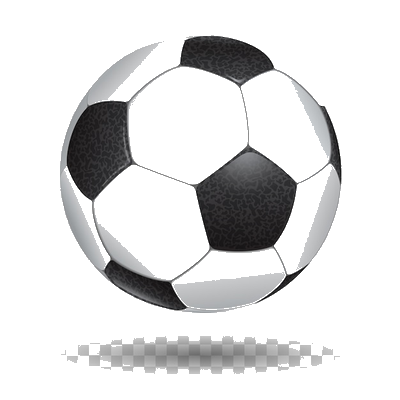
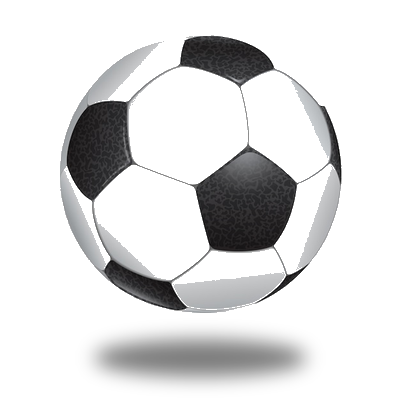
Fix: pallone da calcio dithered e Porta da calcio riclassificata
L'immagine deco-pallone-calcio.png aveva l'ombra sotto il pallone
corrotta: il canale alpha era ridotto a blocchi netti 0/255 senza vie
di mezzo, tipico artefatto di una compressione che quantizza la
trasparenza a scacchiera invece di mantenerla sfumata. Il risultato
era il pattern a scacchi visibile nell'anteprima della decorazione.

Rigenerata l'ombra con una vera sfumatura alpha (gradiente gaussiano,
nessun dithering), mantenendo intatto il pallone che non aveva il
problema. Verificato che l'alpha ora cresce gradualmente pixel per
pixel invece di saltare a scatti.

'Porta da calcio' era classificata 'flat' (2D) in ordina.html ma ha un
vero modello .glb tridimensionale (Porta da calcio.glb, presente su
disco): rimossa dall'elenco flat_items del tema Sport.

Controllato sistematicamente il resto del catalogo confrontando ogni
decorazione con il relativo file .glb: 'Pallone da calcio' e' l'unica
priva di modello 3D (usa il PNG come fallback, corretto). Il conteggio
vertici non e' un indicatore affidabile per altre classificazioni: la
quasi totalita' delle decorazioni segnate 'flat' ha comunque mesh
dettagliate a migliaia di vertici, quindi 'flat' descrive il pezzo
fisico stampato e non la complessita' del modello di anteprima - nessun
altro caso segnalabile senza revisione visiva singola.

Claude-Session: https://claude.ai/code/session_01D9n4oh5V6RCr9X9jCFhdVj

Changed region(s): [[0.15, 0.81, 0.84, 0.96]]

diff --git a/app/templates/ordina.html b/app/templates/ordina.html
@@ -376,7 +376,7 @@
                   ('<i class="fas fa-fish"></i>',      'Mare',        ['Pesce','Polpo','Stella marina','Conchiglia','Granchio','Delfino','Balena','Medusa','Tartaruga','Corallo','Cavalluccio marino'], ['Pesce','Stella marina','Granchio','Balena','Medusa','Corallo','Cavalluccio marino']),
                   ('<i class="fas fa-cloud-sun"></i>', 'Cielo',       ['Nuvola','Sole','Arcobaleno','Farfalla','Uccellino','Mongolfiera','Luna','Aquilone','Palloncino'], ['Nuvola','Sole','Arcobaleno','Farfalla','Uccellino','Mongolfiera','Luna','Aquilone','Palloncino']),
                   ('<i class="fas fa-crown"></i>',     'Principessa', ['Corona','Bacchetta magica','Castello','Unicorno','Fiocco','Fatina','Scarpa col tacco','Rossetto','Carrozza'], ['Bacchetta magica','Unicorno','Fiocco','Fatina','Carrozza']),
-                  ('<i class="fas fa-futbol"></i>',    'Sport',       ['Pallone da calcio','Pallone da basket','Porta da calcio','Canestro','Guantone boxe','Racchetta tennis','Pallina tennis','Bicicletta','Skateboard','Racchetta da padel','Palla da football','Arrampicata'], ['Pallone da calcio','Pallone da basket','Porta da calcio','Guantone boxe','Bicicletta','Palla da football']),
+                  ('<i class="fas fa-futbol"></i>',    'Sport',       ['Pallone da calcio','Pallone da basket','Porta da calcio','Canestro','Guantone boxe','Racchetta tennis','Pallina tennis','Bicicletta','Skateboard','Racchetta da padel','Palla da football','Arrampicata'], ['Pallone da calcio','Pallone da basket','Guantone boxe','Bicicletta','Palla da football']),
                   ('<i class="fas fa-car"></i>',       'Motori',      ['Macchinina','Moto','Trattore','Aeroplano','Camion','Vespa','Treno'],               []),
                   ('<i class="fas fa-leaf"></i>',      'Natura',      ['Fiore','Foglia','Fungo','Ape','Coccinella'],                                     ['Fiore','Foglia','Fungo','Ape','Coccinella']),
                   ('<i class="fas fa-ice-cream"></i>', 'Cibo',        ['Cono gelato','Pizza','Fragola','Fetta cocomero','Ciliege','More','Fetta torta'], ['Cono gelato','Pizza','Fetta cocomero','Fetta torta']),
